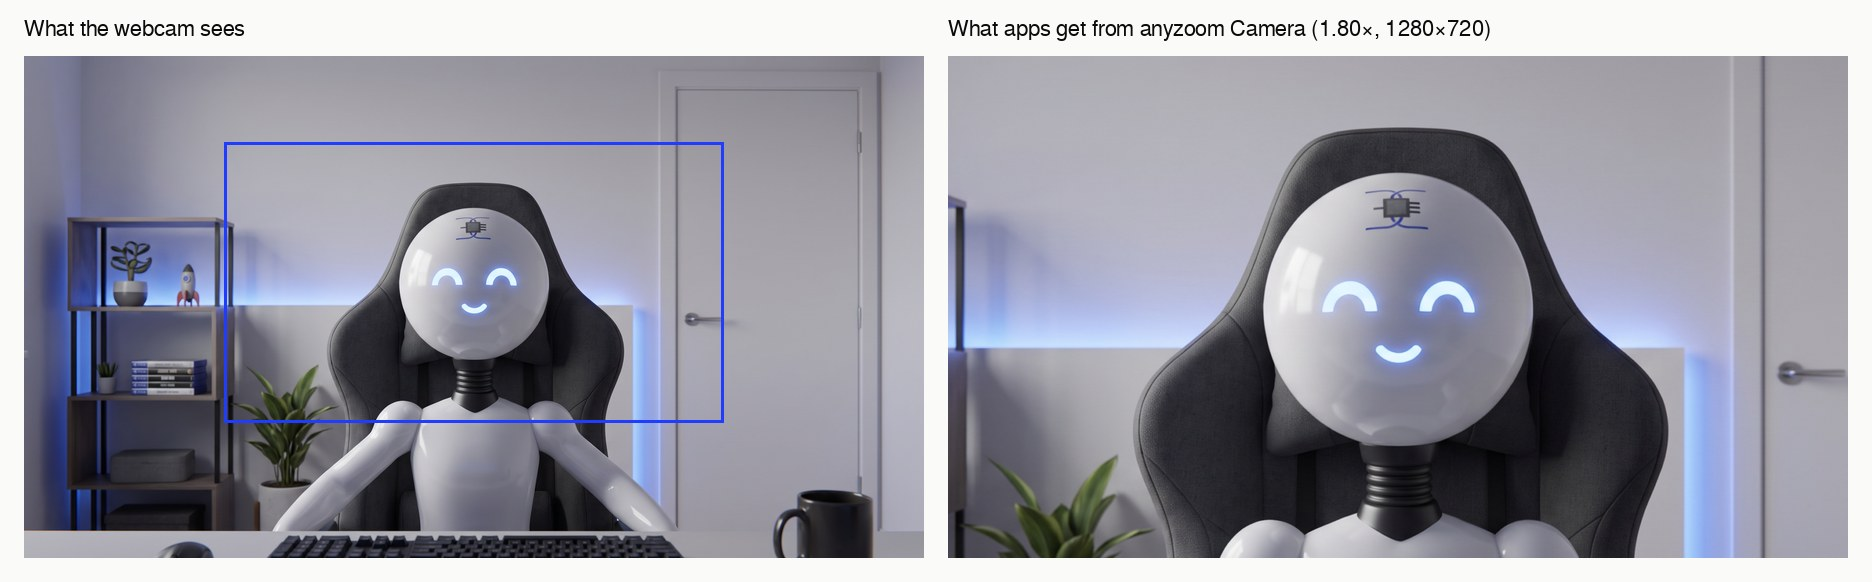
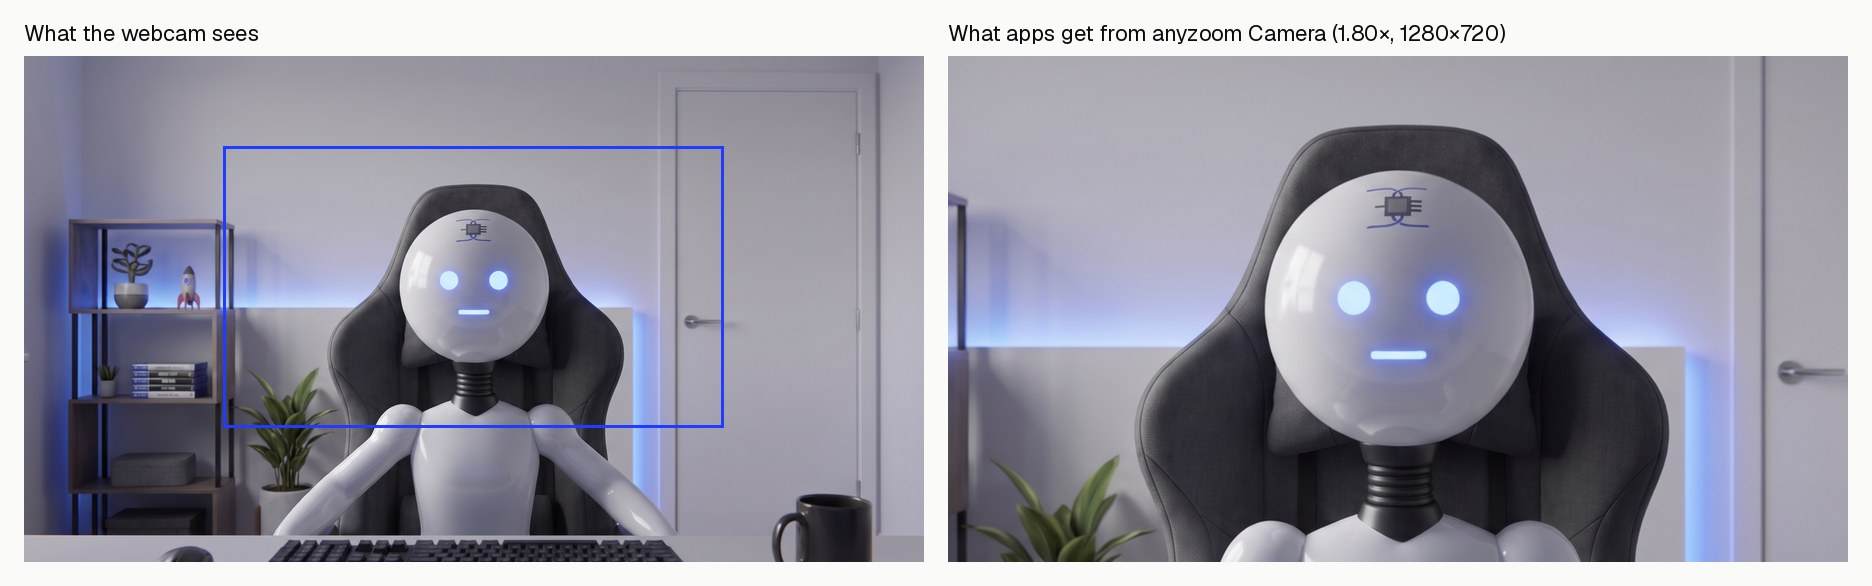
README: How it moves, with the hotkey sequence and a neutral Triple E
- add "How it moves": an animation of the window driven by the default
  hotkeys, built from the app's own interface code, the 0.1 zoom and pan
  steps from anyzoom-core and its 0.12 s easing; a table of every hotkey
  and what one press does
- add three keyboard scenes, each next to the window state it produces
- Triple E's face is now the neutral default in every picture
- say how the animation and the scenes were made

diff --git a/README.md b/README.md
@@ -10,6 +10,7 @@
   <a href="https://github.com/3E-Labs/anyzoom/releases">Download</a> ·
   <a href="#install">Install</a> ·
   <a href="#using-it">Using it</a> ·
+  <a href="#how-it-moves">How it moves</a> ·
   <a href="#how-it-works">How it works</a> ·
   <a href="#build-from-source">Build from source</a>
 </p>
@@ -23,7 +24,7 @@
 <p align="center"><sub>An open source tool from <a href="https://github.com/3E-Labs">3E Labs</a></sub></p>
 
 <p align="center">
-  <img src="docs/images/triple-e-call.jpg" width="880" alt="Triple E, the 3E Labs mascot, at his desk waving at the webcam on top of his monitor; the monitor shows the anyzoom window">
+  <img src="docs/images/triple-e-call.jpg" width="880" alt="Triple E, the 3E Labs mascot, at his desk raising a hand to the webcam on top of his monitor; the monitor shows the anyzoom window">
 </p>
 
 ---
@@ -71,14 +72,7 @@ download, build it yourself from this source (see [Build from source](#build-fro
 - Drag the slider, or scroll on the picture, to zoom.
 - Drag the blue frame to choose which part of the picture is sent. Double-click
   it to reset.
-- Hotkeys work while any app is in front:
-
-  | Action | Default keys |
-  | --- | --- |
-  | Zoom in / out | `Ctrl+Alt+=` / `Ctrl+Alt+-` |
-  | Reset | `Ctrl+Alt+0` |
-  | Move | `Ctrl+Alt+` arrow keys |
-
+- Hotkeys work while any app is in front (see [How it moves](#how-it-moves)).
   Click a hotkey in the window to change it. If another program already owns
   a combination, anyzoom tells you which one is not working.
 - Zoom and moves glide rather than jump, so a change during a call looks like
@@ -88,8 +82,39 @@ download, build it yourself from this source (see [Build from source](#build-fro
 - **Start with Windows** (off by default) starts anyzoom in the tray so the
   camera is there before your call starts.
 
+## How it moves
+
 <p align="center">
-  <img src="docs/images/triple-e-desk.jpg" width="880" alt="Over Triple E's shoulder as he faces his monitor: the anyzoom window fills the screen, the webcam sits on top, and the preview shows his face lit in a smile">
+  <img src="docs/images/how-it-moves.gif" width="880" alt="Animation of the anyzoom window driven by hotkeys: Ctrl+Alt+= pressed eight times takes the blue frame from 1.00× to 1.80×, the arrow keys move it up and right and back, Ctrl+Alt+- zooms out to 1.50×, Ctrl+Alt+0 resets. Beside the window, the picture apps receive follows the frame smoothly">
+</p>
+
+Every hotkey press moves the view by one fixed step:
+
+| Action | Default keys | Each press |
+| --- | --- | --- |
+| Zoom in | `Ctrl+Alt+=` | +0.1×, up to 4× |
+| Zoom out | `Ctrl+Alt+-` | −0.1×, down to 1× |
+| Move left / right | `Ctrl+Alt+Left` / `Ctrl+Alt+Right` | pan −0.1 / +0.1 |
+| Move up / down | `Ctrl+Alt+Up` / `Ctrl+Alt+Down` | pan −0.1 / +0.1 |
+| Reset | `Ctrl+Alt+0` | back to 1×, centred |
+
+Pan runs from −1 (the frame against the left or top edge of the picture) to
++1 (against the right or bottom edge), with 0 in the middle. At 1× the frame
+already covers the whole picture, so moving shows no change until you zoom in.
+
+The blue frame in the window jumps to the new position at once. The picture
+apps receive follows it smoothly: each frame it covers part of the remaining
+distance, about 63% every 0.12 s, so a run of presses looks like one steady
+camera move rather than a series of cuts. Dragging the slider or the frame,
+scrolling on the picture and the **Reset** button set the same target and
+glide the same way.
+
+<p align="center">
+  <img src="docs/images/triple-e-hotkeys.jpg" width="880" alt="Three steps at Triple E's desk, each next to the anyzoom window it produces: Ctrl+Alt+= eight times gives a 1.80× frame; Ctrl+Alt+Right three times slides the frame right; Ctrl+Alt+0 resets to the whole picture">
+</p>
+
+<p align="center">
+  <img src="docs/images/triple-e-desk.jpg" width="880" alt="Over Triple E's shoulder as he faces his monitor: the anyzoom window fills the screen, the webcam sits on top, and the preview shows his face">
 </p>
 
 ### Good to know
@@ -219,10 +244,14 @@ Mono) are under the SIL Open Font License.
 ## About the pictures
 
 The character in them is Triple E, the 3E Labs mascot. The scenes are
-generated images. The anyzoom window, on its own and on the monitors, is
-anyzoom's own interface code drawn in a browser, with a picture of Triple E
-from his webcam as the camera feed. The right half of the before-and-after
-image is that picture cropped and scaled the way anyzoom does it, at 1.80×.
+generated images; the key captions on the keyboard scenes were added
+afterwards. The anyzoom window, on its own, on the monitors and in the
+animation, is anyzoom's own interface code drawn in a browser, with a picture
+of Triple E from his webcam as the camera feed. These are not screenshots
+from Windows. In the animation and in the right half of the before-and-after
+image, that picture is cropped with anyzoom's crop rule; in the animation it
+also eases with the app's time constant, step by step from the same hotkey
+values the code uses.
 
 ---
 
